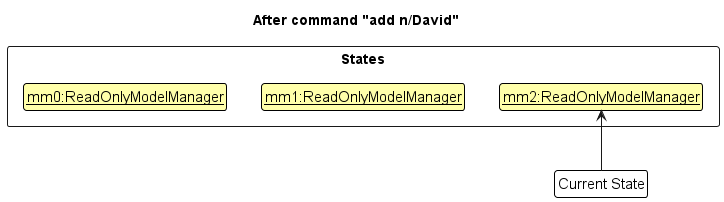
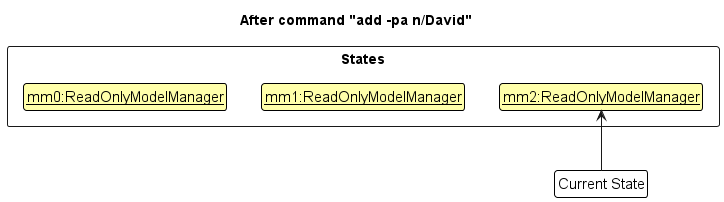
Fix resetData bug in ModelManager.java Update documentation

Changed region(s): [[0.3343, 0.0594, 0.6685, 0.1485]]

diff --git a/src/main/java/seedu/address/model/ModelManager.java b/src/main/java/seedu/address/model/ModelManager.java
@@ -73,12 +73,14 @@ public class ModelManager implements Model {
      * @param toCopyFrom ModelManager to copy from
      */
     public void resetData(ReadOnlyModelManager toCopyFrom) {
-        setAddressBook(toCopyFrom.addressBook);
-        setUserPrefs(toCopyFrom.userPrefs);
-        updateSelectedPerson(toCopyFrom.selectedPerson);
-        //Since Predicate is only set from addCommand, findCommand and listCommand, and they all only use
-        //Predicate<Person>, this typecast should be safe
-        updateFilteredPersonList((Predicate<Person>) toCopyFrom.filteredPersons.getPredicate());
+        setAddressBook(new AddressBook(toCopyFrom.addressBook));
+        setUserPrefs(toCopyFrom.userPrefs.getCopy());
+        Person personCopy = toCopyFrom.selectedPerson == null
+                ? null
+                : toCopyFrom.selectedPerson.getCopy();
+        updateSelectedPerson(personCopy);
+        Predicate<Person> predicateCopy = toCopyFrom.filteredPersons.getPredicate()::test;
+        updateFilteredPersonList(predicateCopy);
         setTheme(toCopyFrom.themeProperty.getValue());
     }
 

diff --git a/src/main/java/seedu/address/logic/commands/DeleteShortcutCommand.java b/src/main/java/seedu/address/logic/commands/DeleteShortcutCommand.java
@@ -45,7 +45,6 @@ public class DeleteShortcutCommand extends Command {
                 message.append(String.format(MESSAGE_NONEXISTENT, shortcutAlias));
             } else {
                 message.append(String.format(MESSAGE_SUCCESS, shortcutAlias + " --> " + feedback));
-
             }
         });
         model.commit();

diff --git a/docs/team/kokseng1.md b/docs/team/kokseng1.md
@@ -7,20 +7,25 @@ title: Ng Kok Seng Project Portfolio Page
 
 ### Overview:
 
-- *to be added soon*
+DoConnek Pro offers General Practitioner Clinic Management Staff an efficient desktop application for organizing patient and specialist contact details. Designed to cater to Command Line Interface (CLI) enthusiasts while also featuring an intuitive Graphical User Interface (GUI), it enables swift execution of routine tasks.
 
 ### Summary of Contributions
 
 - **Code Contributed:**
-    - *to be added soon*
-- **Enhancements implemented:**
-    - *to be added soon*
+  [RepoSense Link](https://nus-cs2103-ay2324s1.github.io/tp-dashboard/?search=kokseng1&breakdown=false&sort=groupTitle%20dsc&sortWithin=title&since=2023-09-22&timeframe=commit&mergegroup=&groupSelect=groupByRepos)
+- **Feature implemented: undo/redo command** [PR link](https://github.com/AY2324S1-CS2103T-W13-1/tp/pull/158)
+  - Undo : lets users undo their most recent valid commands, in case of any errors
+  - Redo : lets users redo their most recent undo command
+- Enhancement implemented: Added `Specialty` as a field for specialists [PR link](https://github.com/AY2324S1-CS2103T-W13-1/tp/pull/60)
 - **Contributions to Documentation:**
-    - **User Guide:** *to be added soon*
-    - **Developer Guide:** *to be added soon*
-- **Contributions to team-based tasks:**
-    - *to be added soon*
+    - **User Guide:** Added documentation for undo/redo command and save/load data.
+    - **Developer Guide:** 
+      - Updated undo/redo documentation to reflect new implementation of undo/redo, including UML diagrams.
+      - Added "add a patient" use case.
+      - Added patient management user stories
 - **Review/mentoring contributions:**
-    - *to be added soon*
-- **Contributions beyond the project team:**
-    - *to be added soon*
+    - [1.4 bug fixes](https://github.com/AY2324S1-CS2103T-W13-1/tp/pull/160)
+    - [Recall recent commands feature](https://github.com/AY2324S1-CS2103T-W13-1/tp/pull/90)
+    - [Improve find command flexibility](https://github.com/AY2324S1-CS2103T-W13-1/tp/pull/88)
+    - [Enable Medical History field to be optional and multiple value](https://github.com/AY2324S1-CS2103T-W13-1/tp/pull/76)
+    - [Add 'exit program' use case in Developer Guide](https://github.com/AY2324S1-CS2103T-W13-1/tp/pull/42)

diff --git a/docs/DeveloperGuide.md b/docs/DeveloperGuide.md
@@ -186,7 +186,7 @@ Step 2. The user executes `delete 5` command to delete the 5th person in the cur
 
 ![UndoRedoState1](images/UndoRedoState1.png)
 
-Step 3. The user executes `add n/David …` to add a new person. The `add` command also calls `Model#commit()`, causing another modified ModelManager state to be saved into the `ModelManagerStateList`.
+Step 3. The user executes `add -pa n/David …` to add a new person. The `add` command also calls `Model#commit()`, causing another modified ModelManager state to be saved into the `ModelManagerStateList`.
 
 ![UndoRedoState2](images/UndoRedoState2.png)
 
@@ -217,8 +217,8 @@ The `redo` command does the opposite — it calls `Model#redo()`, which shif
 
 </div>
 
-Step 5. The user then decides to execute the command `list`. Since this command modifies the ModelManager, `Model#commit()` is called.
-Since the `currentStatePointer` is not pointing at the end of the `ModelManagerStateList`, all ModelManager states after the `currentStatePointer` will be purged. Reason: It no longer makes sense to redo the `add n/David …` command. This is the behavior that most modern desktop applications follow.
+Step 5. The user then decides to execute the command `list -pa`. Since this command modifies the ModelManager, `Model#commit()` is called.
+Since the `currentStatePointer` is not pointing at the end of the `ModelManagerStateList`, all ModelManager states after the `currentStatePointer` will be purged. Reason: It no longer makes sense to redo the `add -pa n/David …` command. This is the behavior that most modern desktop applications follow.
 
 ![UndoRedoState4](images/UndoRedoState4.png)
 

diff --git a/docs/UserGuide.md b/docs/UserGuide.md
@@ -205,14 +205,15 @@ Examples:
 ### Undo previous entry : `undo`
 
 Undo the previous command, stackable (all commands that were successfully executed previously can be continuously undone until there are no commands left to be undone).
-The undo/redo command is affected by all successful commands, whether they change the data or not.
-For example, 2 successive `list -sp` commands will require 2 undos, although the second command might not produce any visible change.
+The undo command is affected by all successful commands, whether they change the data or not.
+For example, 2 successive `list -sp` commands will require 2 undos, although the second command might not produce any visible change in the user interface.
 
 Format: `undo`
 
 ### Redo previous undo : `redo`
 
-Redo the previous 'undo', stackable. (Able to keep redoing-ing till there are no undo left to be redone)
+Redo the previous 'undo', stackable. (all commands that were undone previously can be continuously redone until there are no commands left to be redone).
+The redo command is affected by all previous undo commands, even if the undo command does not create any visible change in the user interface.
 
 Format: `redo`
 
